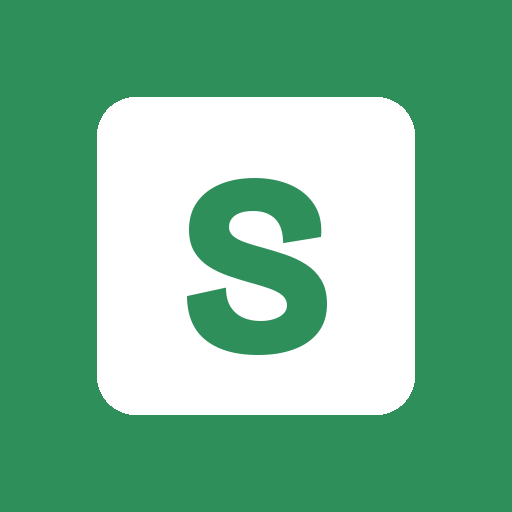
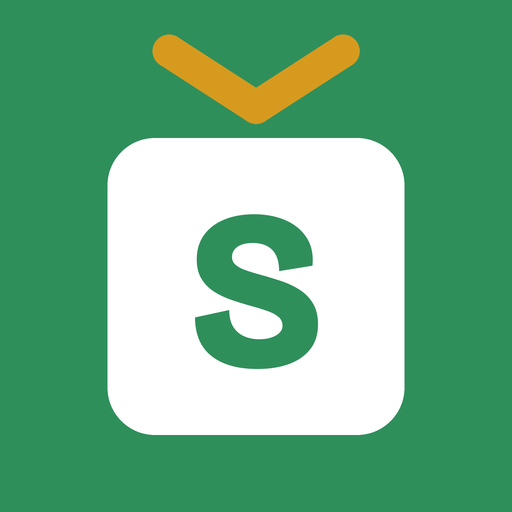
Add files via upload

Changed region(s): [[0.1875, 0.0625, 0.8125, 0.7812], [0.3438, 0.3438, 0.6562, 0.7188], [0.2188, 0.7812, 0.7812, 0.875]]

diff --git a/index.html b/index.html
@@ -44,25 +44,72 @@
 <meta name="apple-mobile-web-app-title" content="Slovíčko">
 <link rel="preconnect" href="https://fonts.googleapis.com">
 <link rel="preconnect" href="https://fonts.gstatic.com" crossorigin>
-<link rel="stylesheet" href="https://fonts.googleapis.com/css2?family=Bricolage+Grotesque:opsz,wght@12..96,500;12..96,800&family=Atkinson+Hyperlegible:wght@400;700&display=swap">
+<link rel="stylesheet" href="https://fonts.googleapis.com/css2?family=Bricolage+Grotesque:opsz,wght@12..96,500;12..96,800&family=Atkinson+Hyperlegible:wght@400;700&family=Caveat:wght@600;700&family=Zilla+Slab:wght@600;700&family=Patrick+Hand&family=Fredoka:wght@500;700&display=swap">
 <style>
-/* Layout: one centred column — header, mode tabs, 6×5 tile grid, Czech QWERTZ keyboard under it */
+/* Layout: one centred column — header, mode tabs, 6×5 tile grid, Czech QWERTZ keyboard under it.
+   Vzhledy (skins) only redefine tokens; components read tokens. Klasický follows the system theme, the others commit to one look. */
 :root {
-  --bg: #eef0f3; --surface: #ffffff; --ink: #1d2433; --muted: #6b7486; --line: #c9ced8; --key: #d8dce4;
-  --hit: #2f8f5b; --near: #d69a1f; --miss: #7b8394; --on-state: #ffffff;
+  --bg: #eef0f3; --page: none; --surface: #ffffff; --ink: #1d2433; --muted: #6b7486; --line: #c9ced8;
+  --key: #d8dce4; --key-ink: var(--ink); --key-shadow: none; --key-radius: 6px;
+  --hit: #2f8f5b; --near: #d69a1f; --miss: #7b8394; --on-hit: #ffffff; --on-near: #ffffff; --on-miss: #ffffff;
+  --tile-bg: var(--surface); --tile-line: var(--line); --tile-filled: var(--muted); --tile-style: solid; --tile-radius: 6px;
+  --tile-shadow: none; --state-shadow: none; --tile-glow: none;
+  --tile-font: var(--display); --tile-weight: 800; --tile-size: 1.85rem;
+  --title-font: var(--display); --title-weight: 800; --title-size: 1.75rem; --accent: var(--hit);
   --display: "Bricolage Grotesque", "Segoe UI", system-ui, sans-serif;
   --body: "Atkinson Hyperlegible", "Segoe UI", system-ui, sans-serif;
   color-scheme: light;
 }
 @media (prefers-color-scheme: dark) {
-  :root { --bg: #12161f; --surface: #1b2130; --ink: #e8ebf1; --muted: #9099ab; --line: #353d50; --key: #2c3446;
+  :root:not([data-skin]) { --bg: #12161f; --surface: #1b2130; --ink: #e8ebf1; --muted: #9099ab; --line: #353d50; --key: #2c3446;
           --hit: #3a9d67; --near: #c99022; --miss: #444c5e; color-scheme: dark; }
 }
-:root.cb { --hit: #e3742b; --near: #3d8fd6; }
+/* Školní sešit: linkovaný papír, modrý inkoust, zvýrazňovače */
+:root[data-skin="sesit"] {
+  --bg: #fbf8ef; --page: linear-gradient(90deg, transparent 9px, #eaa6a2 9px 11px, transparent 11px), repeating-linear-gradient(180deg, transparent 0 27px, #cfdcf0 27px 28px);
+  --surface: #fffdf7; --ink: #1f2f6b; --muted: #5d6b94; --line: #b9c7e2; --key: #efe8d6; --key-shadow: 0 2px 0 #d3c7a6; --key-radius: 4px;
+  --hit: #8fdc9b; --near: #ffe169; --miss: #ddd8cb; --on-hit: #1f2f6b; --on-near: #1f2f6b; --on-miss: #6b7090;
+  --tile-bg: rgba(255,255,255,.65); --tile-line: #a9bde0; --tile-filled: #1f2f6b; --tile-radius: 3px;
+  --tile-font: "Caveat", "Segoe Print", cursive; --tile-weight: 700; --tile-size: 2.5rem;
+  --title-font: "Caveat", "Segoe Print", cursive; --title-weight: 700; --title-size: 2.4rem; --accent: #d9534f;
+}
+/* Česká klasika: krémový papír, dřevěné kostky, slabé zrno */
+:root[data-skin="klasika"] {
+  --bg: #f1e6d0; --page: radial-gradient(rgba(110,70,30,.07) 1px, transparent 1.4px) 0 0 / 5px 5px;
+  --surface: #fbf5e8; --ink: #3b2616; --muted: #7d6450; --line: #d8c5a3; --key: #e8d6b5; --key-shadow: 0 3px 0 #b8996b; --key-radius: 8px;
+  --hit: #4f7f3a; --near: #d39b2a; --miss: #8c7b67; --on-hit: #fff8ec; --on-near: #fff8ec; --on-miss: #fff8ec;
+  --tile-bg: linear-gradient(160deg, #f3ddb5, #dcb682); --tile-line: transparent; --tile-filled: #a77b48; --tile-radius: 8px;
+  --tile-shadow: 0 4px 0 #a8794a, inset 0 1px 0 rgba(255,255,255,.55); --state-shadow: 0 4px 0 rgba(60,35,15,.35);
+  --tile-font: "Zilla Slab", Georgia, serif; --tile-weight: 700; --tile-size: 2rem;
+  --title-font: "Zilla Slab", Georgia, serif; --title-weight: 700; --title-size: 1.9rem; --accent: #b8352c;
+}
+/* Noční tabule: zelená tabule, křída, dřevěný rám */
+:root[data-skin="tabule"] {
+  --bg: #1e3a2c; --page: radial-gradient(ellipse at 30% 20%, rgba(255,255,255,.07), transparent 55%), radial-gradient(ellipse at 80% 85%, rgba(255,255,255,.05), transparent 50%);
+  --surface: #26473a; --ink: #f2f1ea; --muted: #a9bfb2; --line: rgba(242,241,234,.28); --key: rgba(242,241,234,.1); --key-radius: 5px;
+  --hit: #7ccf86; --near: #f0cf5e; --miss: rgba(242,241,234,.16); --on-hit: #13261c; --on-near: #13261c; --on-miss: #e6e5dc;
+  --tile-bg: transparent; --tile-line: rgba(242,241,234,.38); --tile-filled: #f2f1ea; --tile-style: dashed; --tile-radius: 4px;
+  --tile-glow: 0 0 2px rgba(255,255,255,.55);
+  --tile-font: "Patrick Hand", "Comic Sans MS", cursive; --tile-weight: 400; --tile-size: 2.3rem;
+  --title-font: "Patrick Hand", "Comic Sans MS", cursive; --title-weight: 400; --title-size: 2.1rem; --accent: #f0cf5e;
+  color-scheme: dark;
+}
+/* Moderní: sytě modrá noc, zaoblené 3D dlaždice */
+:root[data-skin="moderni"] {
+  --bg: #121735; --page: radial-gradient(circle at 15% 0%, #2b3176 0, transparent 45%), radial-gradient(circle at 100% 100%, #0e3f50 0, transparent 45%);
+  --surface: #1d2350; --ink: #f4f6ff; --muted: #9aa3d4; --line: #343c78; --key: #2b3271; --key-shadow: 0 4px 0 #161b45; --key-radius: 10px;
+  --hit: #22c47a; --near: #ffb21e; --miss: #464e88; --on-hit: #ffffff; --on-near: #2a1c00; --on-miss: #ffffff;
+  --tile-bg: #20275a; --tile-line: transparent; --tile-filled: #6b74c9; --tile-radius: 14px;
+  --tile-shadow: inset 0 -5px 0 rgba(0,0,0,.28); --state-shadow: inset 0 -5px 0 rgba(0,0,0,.22);
+  --tile-font: "Fredoka", "Segoe UI", sans-serif; --tile-weight: 700; --tile-size: 2rem;
+  --title-font: "Fredoka", "Segoe UI", sans-serif; --title-weight: 700; --title-size: 1.85rem; --accent: #ffb21e;
+  color-scheme: dark;
+}
+:root.cb { --hit: #e3742b; --near: #3d8fd6; --on-hit: #ffffff; --on-near: #ffffff; }
 html, body { height: 100%; }
 html { background: var(--bg); }
 body {
-  margin: 0; background: var(--bg); color: var(--ink); font: 15px var(--body);
+  margin: 0; background: var(--page), var(--bg); background-color: var(--bg); background-attachment: fixed; color: var(--ink); font: 15px var(--body);
   padding-left: max(16px, env(safe-area-inset-left, 0px)); padding-right: max(16px, env(safe-area-inset-right, 0px));
   padding-top: env(safe-area-inset-top, 0px); padding-bottom: env(safe-area-inset-bottom, 0px);
   box-sizing: border-box; -webkit-tap-highlight-color: transparent;
@@ -70,8 +117,10 @@ body {
 [hidden] { display: none !important; }
 .app { max-width: 500px; margin: 0 auto; min-height: 100%; display: flex; flex-direction: column; gap: 12px; padding-block: 12px 12px; box-sizing: border-box; }
 header { display: flex; align-items: center; justify-content: space-between; gap: 8px; }
-h1 { font: 800 1.75rem var(--display); margin: 0; letter-spacing: -0.02em; }
-h1 .dot { color: var(--hit); }
+h1 { font: var(--title-weight) var(--title-size)/1 var(--title-font); margin: 0; letter-spacing: -0.01em; display: flex; align-items: center; gap: 8px; }
+h1 .dot { color: var(--accent); }
+h1 .mark { width: 30px; height: 30px; flex: none; }
+:root[data-skin="tabule"] body::after { content: ""; position: fixed; inset: 0; border: 7px solid #7a5532; box-shadow: inset 0 0 0 2px #5c3e22, inset 0 0 40px rgba(0,0,0,.35); pointer-events: none; z-index: 5; }
 .icons { display: flex; gap: 6px; }
 .ib {
   width: 38px; height: 38px; display: grid; place-items: center; padding: 0;
@@ -96,11 +145,11 @@ button:focus-visible, input:focus-visible { outline: 3px solid var(--near); outl
 .board-wrap { flex: 1; display: flex; align-items: center; justify-content: center; min-height: 0; }
 .board { display: grid; grid-template-rows: repeat(6, 1fr); gap: 6px; width: min(100%, 320px); }
 .row { display: grid; grid-template-columns: repeat(5, 1fr); gap: 6px; }
-.tile { aspect-ratio: 1; max-width: 100%; display: grid; place-items: center; font: 800 1.85rem var(--display); border: 2px solid var(--line); border-radius: 6px; background: var(--surface); color: var(--ink); user-select: none; box-sizing: border-box; }
-.tile.filled { border-color: var(--muted); animation: pop .1s ease-out; }
-.tile.hit  { background: var(--hit);  border-color: var(--hit);  color: var(--on-state); }
-.tile.near { background: var(--near); border-color: var(--near); color: var(--on-state); }
-.tile.miss { background: var(--miss); border-color: var(--miss); color: var(--on-state); }
+.tile { aspect-ratio: 1; max-width: 100%; display: grid; place-items: center; font: var(--tile-weight) var(--tile-size)/1 var(--tile-font); border: 2px var(--tile-style) var(--tile-line); border-radius: var(--tile-radius); background: var(--tile-bg); box-shadow: var(--tile-shadow); text-shadow: var(--tile-glow); color: var(--ink); user-select: none; box-sizing: border-box; }
+.tile.filled { border-color: var(--tile-filled); animation: pop .1s ease-out; }
+.tile.hit  { background: var(--hit);  border: 2px solid var(--hit);  color: var(--on-hit);  box-shadow: var(--state-shadow); text-shadow: none; }
+.tile.near { background: var(--near); border: 2px solid var(--near); color: var(--on-near); box-shadow: var(--state-shadow); text-shadow: none; }
+.tile.miss { background: var(--miss); border: 2px solid transparent; color: var(--on-miss); box-shadow: var(--state-shadow); text-shadow: none; }
 .tile.flip { animation: flip .45s ease-in-out both; }
 .row.shake { animation: shake .4s; }
 .tile.win { animation: hop .5s ease both; }
@@ -114,21 +163,21 @@ button:focus-visible, input:focus-visible { outline: 3px solid var(--near); outl
 .about p { margin: 0 0 10px; max-width: 65ch; }
 .kb { display: flex; flex-direction: column; gap: 6px; user-select: none; }
 .kr { display: flex; gap: 4px; justify-content: center; }
-.key { flex: 1 1 0; min-width: 0; height: 50px; max-width: 44px; font: 700 1rem var(--body); color: var(--ink); background: var(--key); border: 0; border-radius: 6px; cursor: pointer; padding: 0; display: grid; place-items: center; }
+.key { flex: 1 1 0; min-width: 0; height: 50px; max-width: 44px; font: 700 1rem var(--body); color: var(--key-ink); background: var(--key); box-shadow: var(--key-shadow); border: 0; border-radius: var(--key-radius); cursor: pointer; padding: 0; display: grid; place-items: center; }
 .key.wide { max-width: 68px; flex-grow: 1.6; font-size: 0.75rem; text-transform: uppercase; letter-spacing: 0.04em; }
 .key.diac { height: 40px; }
-.key.hit  { background: var(--hit);  color: var(--on-state); }
-.key.near { background: var(--near); color: var(--on-state); }
-.key.miss { background: var(--miss); color: var(--on-state); opacity: .75; }
-.key:active { transform: translateY(1px); }
+.key.hit  { background: var(--hit);  color: var(--on-hit); }
+.key.near { background: var(--near); color: var(--on-near); }
+.key.miss { background: var(--miss); color: var(--on-miss); opacity: .7; }
+.key:active { transform: translateY(2px); box-shadow: none; }
 
 .toast { position: fixed; left: 50%; top: calc(150px + env(safe-area-inset-top, 0px)); transform: translateX(-50%); background: var(--ink); color: var(--bg); font-weight: 700; padding: 10px 16px; border-radius: 8px; z-index: 40; pointer-events: none; max-width: calc(100% - 32px); text-align: center; box-sizing: border-box; }
 
 .sheet-bg { position: fixed; inset: 0; background: rgba(10, 14, 22, .55); z-index: 30; display: grid; place-items: center; padding: 16px; }
 .sheet { background: var(--surface); color: var(--ink); border-radius: 14px; padding: 22px; width: min(100%, 400px); max-height: calc(100vh - 40px); overflow: auto; display: flex; flex-direction: column; gap: 14px; box-shadow: 0 20px 50px rgba(0,0,0,.3); box-sizing: border-box; }
-.sheet h2 { font: 800 1.5rem var(--display); margin: 0; text-wrap: balance; }
+.sheet h2 { font: var(--title-weight) 1.5rem var(--title-font); margin: 0; text-wrap: balance; }
 .sheet p { margin: 0; line-height: 1.5; color: var(--muted); }
-.answer { font: 800 1.6rem var(--display); letter-spacing: .12em; }
+.answer { font: var(--tile-weight) 1.7rem var(--tile-font); letter-spacing: .12em; }
 .mean { display: flex; flex-direction: column; gap: 4px; padding: 12px 14px; border-radius: 10px; background: var(--bg); }
 .sheet .mean .def { color: var(--ink); font-size: 1rem; }
 .refs { font-size: .82rem; color: var(--muted); }
@@ -144,10 +193,10 @@ button:focus-visible, input:focus-visible { outline: 3px solid var(--near); outl
 .stats span { font-size: .72rem; color: var(--muted); text-transform: uppercase; letter-spacing: .05em; }
 .dist { display: flex; flex-direction: column; gap: 4px; }
 .bar { display: grid; grid-template-columns: 14px 1fr; gap: 8px; align-items: center; font-variant-numeric: tabular-nums; font-size: .85rem; }
-.bar i { display: block; background: var(--miss); color: var(--on-state); font-style: normal; font-weight: 700; padding: 2px 6px; border-radius: 3px; text-align: right; min-width: 22px; box-sizing: border-box; }
-.bar i.now { background: var(--hit); }
+.bar i { display: block; background: var(--miss); color: var(--on-miss); font-style: normal; font-weight: 700; padding: 2px 6px; border-radius: 3px; text-align: right; min-width: 22px; box-sizing: border-box; }
+.bar i.now { background: var(--hit); color: var(--on-hit); }
 .primary, .secondary { flex: 1; font: 700 1rem var(--body); border: 0; border-radius: 10px; padding: 12px; cursor: pointer; }
-.primary { background: var(--hit); color: var(--on-state); }
+.primary { background: var(--hit); color: var(--on-hit); }
 .secondary { background: var(--key); color: var(--ink); }
 .row-btns { display: flex; gap: 8px; }
 .countdown { text-align: center; color: var(--muted); font-size: 0.9rem; }
@@ -166,13 +215,21 @@ button:focus-visible, input:focus-visible { outline: 3px solid var(--near); outl
 .sw:checked { background: var(--hit); }
 .sw:checked::after { transform: translateX(18px); }
 .sw:disabled { opacity: .45; cursor: not-allowed; }
+.skins { display: grid; grid-template-columns: repeat(auto-fill, minmax(150px, 1fr)); gap: 8px; }
+.skin { display: flex; flex-direction: column; gap: 8px; align-items: flex-start; padding: 10px; border-radius: 12px; border: 2px solid var(--line); background: none; color: var(--ink); cursor: pointer; text-align: left; font: 700 .9rem var(--body); }
+.skin:last-child:nth-child(odd) { grid-column: 1 / -1; }
+.skin[aria-pressed="true"] { border-color: var(--hit); box-shadow: 0 0 0 2px var(--hit); }
+.skin .pv { display: flex; gap: 4px; padding: 8px; border-radius: 8px; width: 100%; box-sizing: border-box; justify-content: center; }
+.skin .pv i { width: 24px; height: 24px; display: grid; place-items: center; font-style: normal; font-size: 15px; font-weight: 700; border-radius: 4px; }
+.sheet h3 { margin: 4px 0 -4px; font: 700 .78rem var(--body); text-transform: uppercase; letter-spacing: .07em; color: var(--muted); }
+#confetti { position: fixed; inset: 0; width: 100%; height: 100%; pointer-events: none; z-index: 45; }
 
 .arch { display: grid; grid-template-columns: repeat(auto-fill, minmax(56px, 1fr)); gap: 6px; }
 .day { display: flex; flex-direction: column; align-items: center; gap: 1px; padding: 6px 2px; border-radius: 8px; border: 2px solid var(--line); background: var(--surface); color: var(--ink); cursor: pointer; font: 800 1.05rem var(--display); }
 .day small { font: 400 .68rem var(--body); color: var(--muted); }
-.day.won { background: var(--hit); border-color: var(--hit); color: var(--on-state); }
-.day.lost { background: var(--miss); border-color: var(--miss); color: var(--on-state); }
-.day.won small, .day.lost small { color: var(--on-state); opacity: .85; }
+.day.won { background: var(--hit); border-color: var(--hit); color: var(--on-hit); }
+.day.lost { background: var(--miss); border-color: var(--miss); color: var(--on-miss); }
+.day.won small, .day.lost small { color: inherit; opacity: .85; }
 .day.part { border-color: var(--near); }
 .day.today { outline: 2px dashed var(--muted); outline-offset: 2px; }
 
@@ -183,7 +240,7 @@ button:focus-visible, input:focus-visible { outline: 3px solid var(--near); outl
 <body>
 <div class="app">
   <header>
-    <h1>Slovíčko<span class="dot">.</span></h1>
+    <h1><svg class="mark" viewBox="0 0 40 40" aria-hidden="true"><rect x="2" y="7" width="34" height="31" rx="8" style="fill:var(--hit)"/><path d="M12 4 L19 10 L26 4" style="fill:none;stroke:var(--near);stroke-width:4.5;stroke-linecap:round;stroke-linejoin:round"/><text x="19" y="31" text-anchor="middle" style="font-family:var(--tile-font);font-weight:700;font-size:22px;fill:var(--on-hit)">S</text></svg><span>Slovíčko<span class="dot">.</span></span></h1>
     <div class="icons">
       <button class="ib" id="helpBtn" aria-label="Jak hrát">?</button>
       <button class="ib" id="archBtn" aria-label="Archiv">
@@ -248,7 +305,7 @@ const store = {
   get(k, d) { try { const v = localStorage.getItem(k); return v ? JSON.parse(v) : d; } catch { return d; } },
   set(k, v) { try { localStorage.setItem(k, JSON.stringify(v)); } catch {} }
 };
-let settings = Object.assign({ easy: false, hard: false, cb: false, sound: true }, store.get('slovicko-nastaveni', {}));
+let settings = Object.assign({ easy: false, hard: false, cb: false, sound: true, skin: 'klasicky' }, store.get('slovicko-nastaveni', {}));
 let stats = store.get('slovicko-stats-v2', { played: 0, won: 0, streak: 0, best: 0, dist: [0,0,0,0,0,0], lastDay: null, lastWonDay: null });
 let games = store.get('slovicko-hry', {});
 (() => { const old = store.get('slovicko-den', null); if (old && !games[old.day]) { games[old.day] = { g: old.guesses }; store.set('slovicko-hry', games); } })();
@@ -259,6 +316,48 @@ function dateFor(day) { const d = new Date(EPOCH + day * 864e5); return `${d.get
 function applyCb() { document.documentElement.classList.toggle('cb', settings.cb); }
 applyCb();
 
+
+// ---------- vzhledy ----------
+const SKINS = [
+  { id: 'klasicky', name: 'Klasický', bg: '#eef0f3', tile: '#ffffff', ink: '#1d2433', hit: '#2f8f5b', near: '#d69a1f', miss: '#7b8394', on: '#fff', font: "'Bricolage Grotesque', sans-serif", theme: '#2f8f5b' },
+  { id: 'sesit', name: 'Školní sešit', bg: 'repeating-linear-gradient(180deg,#fbf8ef 0 11px,#cfdcf0 11px 12px)', tile: '#fffdf7', ink: '#1f2f6b', hit: '#8fdc9b', near: '#ffe169', miss: '#ddd8cb', on: '#1f2f6b', font: 'Caveat, cursive', theme: '#fbf8ef' },
+  { id: 'klasika', name: 'Česká klasika', bg: '#f1e6d0', tile: '#e8c997', ink: '#3b2616', hit: '#4f7f3a', near: '#d39b2a', miss: '#8c7b67', on: '#fff8ec', font: "'Zilla Slab', serif", theme: '#b8352c' },
+  { id: 'tabule', name: 'Noční tabule', bg: '#1e3a2c', tile: 'transparent', ink: '#f2f1ea', hit: '#7ccf86', near: '#f0cf5e', miss: 'rgba(242,241,234,.18)', on: '#13261c', font: "'Patrick Hand', cursive", theme: '#1e3a2c' },
+  { id: 'moderni', name: 'Moderní', bg: '#121735', tile: '#20275a', ink: '#f4f6ff', hit: '#22c47a', near: '#ffb21e', miss: '#464e88', on: '#fff', font: 'Fredoka, sans-serif', theme: '#121735' }
+];
+function applySkin() {
+  const s = SKINS.find(x => x.id === settings.skin) || SKINS[0];
+  if (s.id === 'klasicky') document.documentElement.removeAttribute('data-skin');
+  else document.documentElement.setAttribute('data-skin', s.id);
+  const m = document.querySelector('meta[name="theme-color"]'); if (m) m.content = s.theme;
+}
+applySkin();
+
+// ---------- konfety ----------
+function confetti() {
+  if (matchMedia('(prefers-reduced-motion: reduce)').matches) return;
+  const cv = document.createElement('canvas'); cv.id = 'confetti'; document.body.appendChild(cv);
+  const ctx = cv.getContext('2d'), dpr = Math.min(2, window.devicePixelRatio || 1);
+  const W = cv.width = innerWidth * dpr, H = cv.height = innerHeight * dpr;
+  const cs = getComputedStyle(document.documentElement);
+  const cols = ['--hit', '--near', '--accent', '--tile-filled'].map(v => cs.getPropertyValue(v).trim()).filter(Boolean);
+  const parts = Array.from({ length: 140 }, (_, i) => ({
+    x: W / 2 + (Math.random() - .5) * W * .3, y: H * .35 + (Math.random() - .5) * 40 * dpr,
+    vx: (Math.random() - .5) * 16 * dpr, vy: (-Math.random() * 15 - 6) * dpr,
+    w: (5 + Math.random() * 6) * dpr, h: (8 + Math.random() * 8) * dpr,
+    r: Math.random() * 6.28, vr: (Math.random() - .5) * .35, c: cols[i % cols.length]
+  }));
+  const t0 = performance.now();
+  (function frame(t) {
+    const age = t - t0; ctx.clearRect(0, 0, W, H);
+    for (const p of parts) {
+      p.vy += .45 * dpr; p.vx *= .985; p.x += p.vx; p.y += p.vy; p.r += p.vr;
+      ctx.save(); ctx.translate(p.x, p.y); ctx.rotate(p.r); ctx.globalAlpha = Math.max(0, 1 - age / 2600);
+      ctx.fillStyle = p.c; ctx.fillRect(-p.w / 2, -p.h / 2, p.w, p.h * Math.abs(Math.cos(p.r * 1.7)) + 1); ctx.restore();
+    }
+    if (age < 2600) requestAnimationFrame(frame); else cv.remove();
+  })(t0);
+}
 // ---------- zvuk a vibrace ----------
 let actx;
 function tone(freq, dur = 0.06, type = 'sine', vol = 0.05, delay = 0) {
@@ -474,7 +573,7 @@ function finish(r) {
   }
   if (g.won) {
     [...rowEl(r).children].forEach((t, i) => { t.style.animationDelay = (i * 90) + 'ms'; t.classList.remove('flip'); void t.offsetWidth; t.classList.add('win'); });
-    toast(['Génius!','Skvělé!','Výborně!','Pěkně!','Uf, dobrý!','Na poslední chvíli!'][r]); sfx.win();
+    toast(['Génius!','Skvělé!','Výborně!','Pěkně!','Uf, dobrý!','Na poslední chvíli!'][r]); sfx.win(); setTimeout(confetti, 350);
   } else sfx.lose();
   updateStatus();
   setTimeout(() => { if (game === g) showEnd(); }, 1300);
@@ -666,7 +765,12 @@ function showArchive() {
 function showSettings() {
   const locked = game.guesses.length > 0 && !game.over;
   const row = (id, title, desc, checked, dis) => `<label class="opt" for="${id}"><span><strong>${title}</strong><small>${desc}</small></span><input type="checkbox" class="sw" id="${id}" ${checked ? 'checked' : ''} ${dis ? 'disabled' : ''}></label>`;
+  const skinBtns = SKINS.map(s => `<button class="skin" data-skin="${s.id}" aria-pressed="${s.id === settings.skin}">
+      <span class="pv" style="background:${s.bg}"><i style="background:${s.hit};color:${s.on};font-family:${s.font}">S</i><i style="background:${s.near};color:${s.on};font-family:${s.font}">L</i><i style="background:${s.miss};color:${s.on};font-family:${s.font}">O</i><i style="background:${s.tile};color:${s.ink};font-family:${s.font};outline:1px solid ${s.ink}33">V</i></span>${s.name}</button>`).join('');
   openSheet(`<h2>Nastavení</h2>
+    <h3>Vzhled</h3>
+    <div class="skins" id="skins">${skinBtns}</div>
+    <h3>Hra</h3>
     <div>
       ${row('optEasy', 'Bez diakritiky', 'Háčky a čárky se nerozlišují, E a Ě je stejné písmeno. Klávesnice se zjednoduší.', settings.easy, locked)}
       ${row('optHard', 'Těžký režim', 'Uhodnutá písmena musíš použít v každém dalším pokusu.', settings.hard, locked)}
@@ -678,6 +782,11 @@ function showSettings() {
   const bind = (id, key, after) => { document.getElementById(id).onchange = e => { settings[key] = e.target.checked; store.set('slovicko-nastaveni', settings); after && after(); }; };
   const applyMode = () => { if (!game.guesses.length && !game.over) { game.easy = settings.easy; game.hard = settings.hard; game.current = []; buildBoard(); buildKb(); updateStatus(); } };
   bind('optEasy', 'easy', applyMode); bind('optHard', 'hard', applyMode);
+  document.getElementById('skins').onclick = e => {
+    const b = e.target.closest('.skin'); if (!b) return;
+    settings.skin = b.dataset.skin; store.set('slovicko-nastaveni', settings); applySkin(); tone(740, 0.05);
+    document.querySelectorAll('.skin').forEach(x => x.setAttribute('aria-pressed', x === b));
+  };
   bind('optCb', 'cb', applyCb); bind('optSound', 'sound', () => settings.sound && tone(660, 0.05));
   on('closeBtn', closeSheet);
 }
